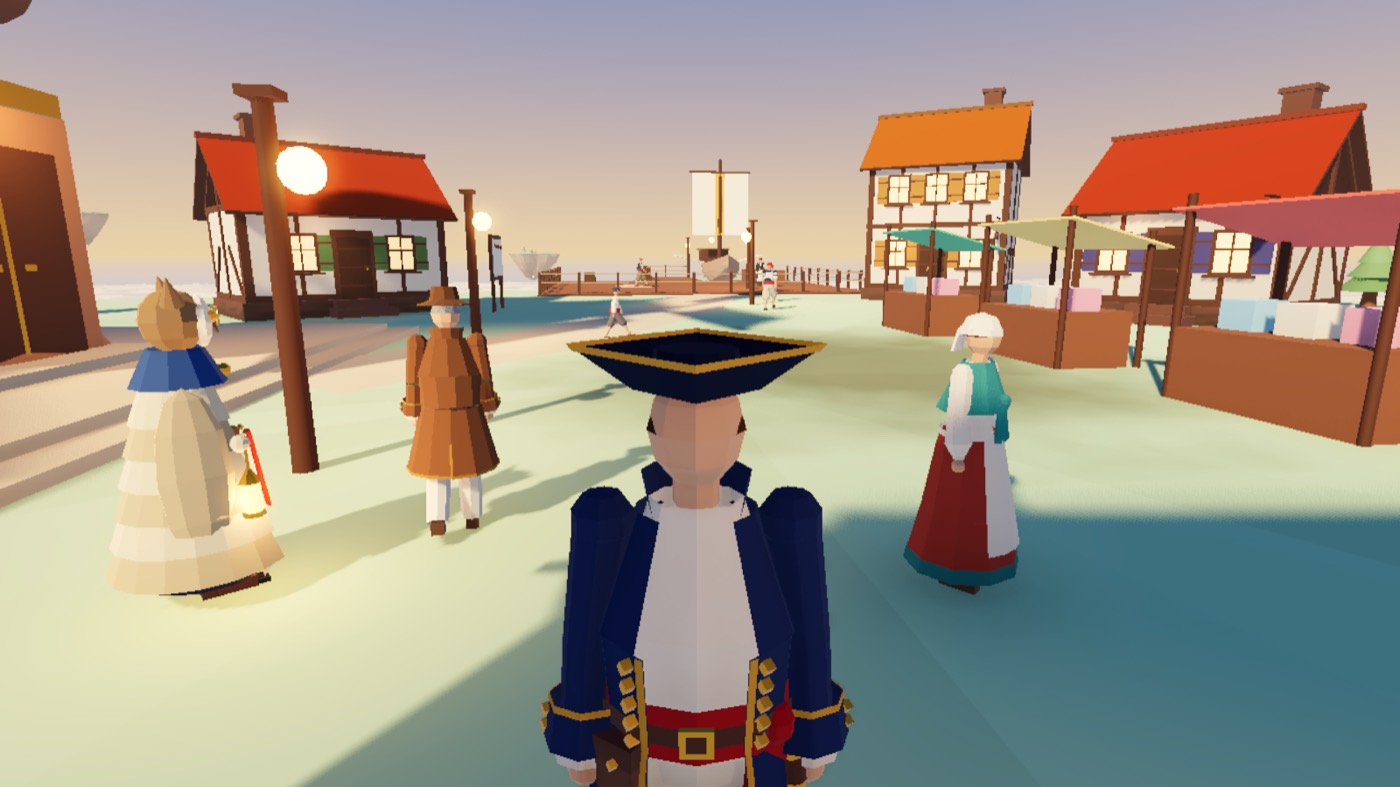
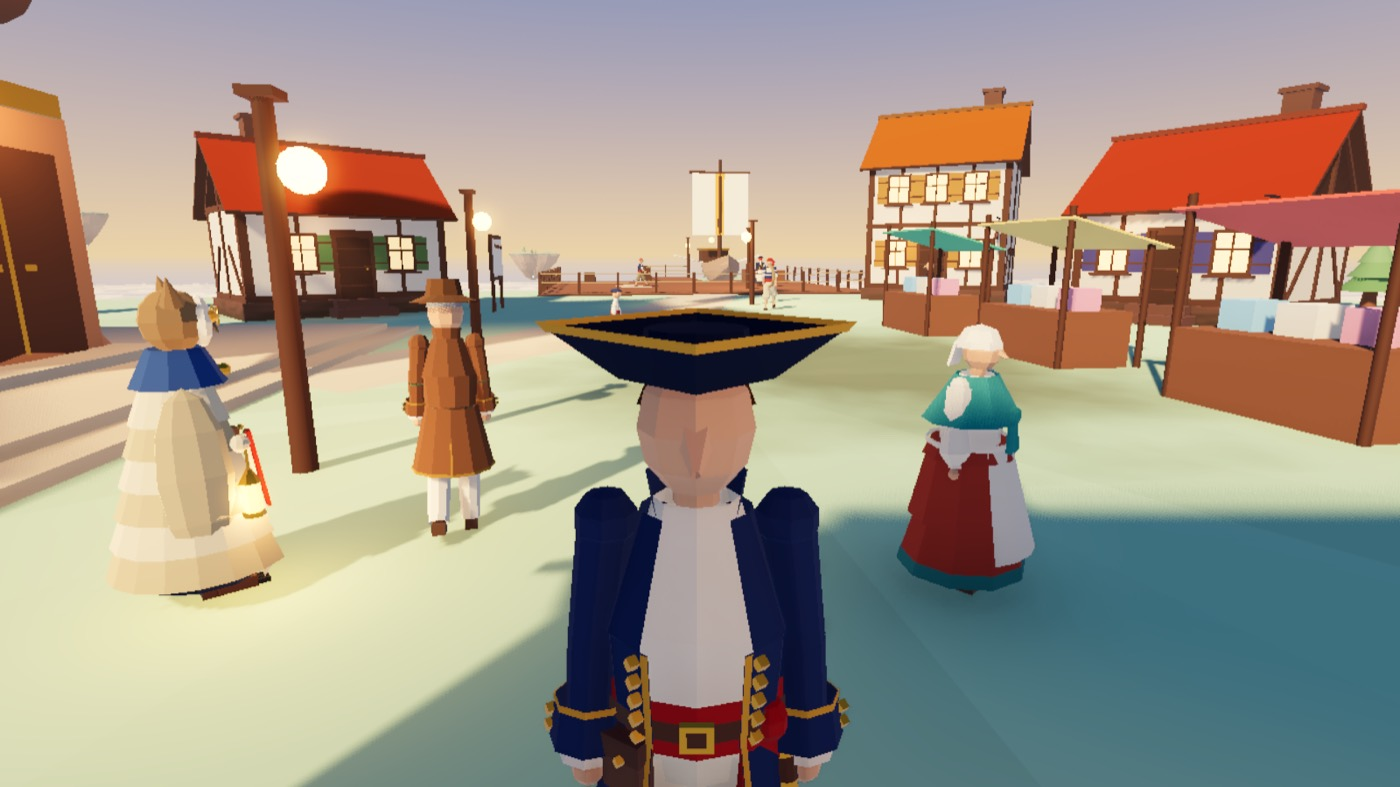
G3D style: pictures retaken with the exaggerated builds

diff --git a/docs/demo/G3D-style.md b/docs/demo/G3D-style.md
@@ -44,6 +44,9 @@ Walking (the gait with foot IK drives the built people too):
   sailors, Mara, money-changer, Olva, market woman, old man, child) and the Chronicler as an owl. The same `Walker`
   (computed gait, foot IK) moves them. The MakeHuman people are not used any more in the default look, so the game no
   longer depends on a Blender build or on `make assets`.
+- **Exaggerated builds** (`Costume.BUILDS`): a lanky sailor with a coil of rope, a short stocky one with a flask, a
+  wiry old one with a long nose and a spyglass, a portly money-changer under a big tricorn, a broad market woman, a
+  thin tall analyst, a child with a big head. Noses are part of the outline; there are still no eyes or mouths.
 - **Ink** (`game3d/shaders/ink.gdshader`, one full-screen quad owned by `Session`): outline on depth and normal edges;
   engraving = paper and ink only, three layers of hatching by brightness, the sky kept clean. Text on the board and on
   the notice board is drawn after the effect so it stays readable; the hall caps the effect at outline.
@@ -74,7 +77,7 @@ Walking (the gait with foot IK drives the built people too):
 - It is low-poly made in code, not modelled by an artist: shapes are tubes, boxes and domes. Good at a distance and in
   motion, plain up close. Trees are balls and cones, the ship is the old simple one, the ground is one flat green.
 - The grass and the light were not re-tuned for the new look; the ground reads pale.
-- No faces at all, by decision. Body builds do not vary.
+- No faces, by decision (a nose only). Builds vary by height, girth, head and nose; there is still one body plan.
 - Engraving is uniform screen-space hatching: it does not follow the forms, and it shimmers a little when the camera moves.
 - Checked on still pictures and by tests; not watched in play.
 - The older demo pages (M3, M4, G3D polish, G3D characters) show the previous looks.
